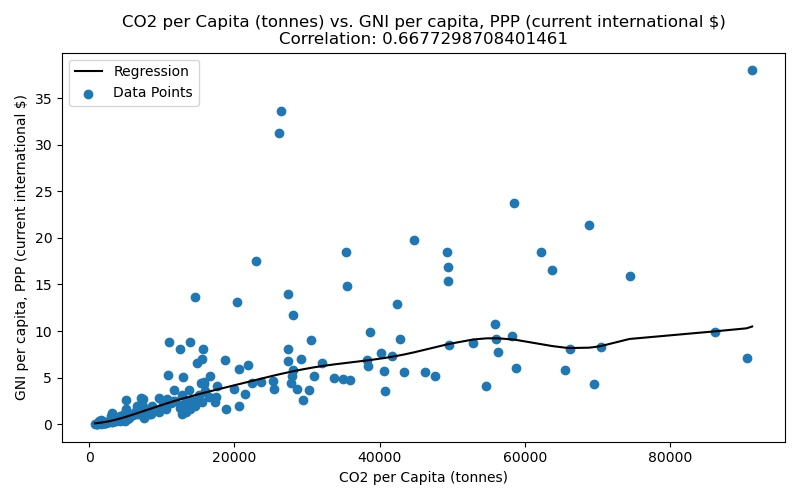
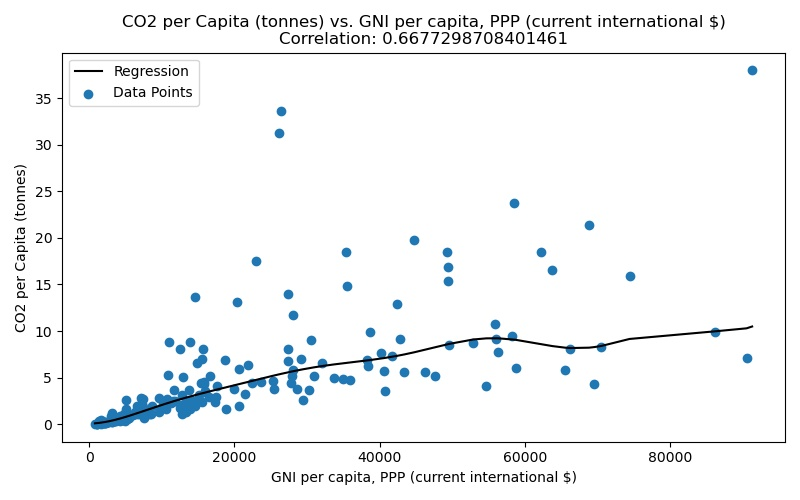
Fixed labeling axes in graphs

Changed region(s): [[0.0, 0.18, 0.0312, 0.81], [0.3438, 0.93, 0.7188, 0.99]]

diff --git a/create_graphs.py b/create_graphs.py
@@ -27,12 +27,12 @@ def create_graph(x, y, x_label, y_label, show=False, C=200, figsize=(16,9)):
     y = np.array(y)
     plt.scatter(x, y)
     plt.plot(np.sort(x), model.fit(X, y).predict(np.sort(X, axis=0)), color="black")
-    plt.title(x_label + " vs. " + y_label + "\nCorrelation: " + str(corr(np.array(x),y)))
+    plt.title(y_label + " vs. " + x_label + "\nCorrelation: " + str(corr(np.array(x),y)))
     plt.xlabel(x_label)
     plt.ylabel(y_label)
     plt.legend(["Regression", "Data Points"])
     plt.tight_layout()
-    plt.savefig("graphs/"+ x_label + " vs. " + y_label + ".jpg")
+    plt.savefig("graphs/"+ y_label + " vs. " + x_label + ".jpg")
     if show:
         plt.show()
 
@@ -45,7 +45,7 @@ for code in GNI["Country Code"]:
     if any(owid_df["iso_code"] == code):
         owid_x.append(GNI.loc[GNI["Country Code"] == code]["GNI per capita, PPP (current international $)"].item())
         owid_y.append(owid_df.loc[owid_df["iso_code"] == code]["co2_per_capita"].item())
-create_graph(owid_x, owid_y, "CO2 per Capita (tonnes)", "GNI per capita, PPP (current international $)",
+create_graph(owid_x, owid_y, "GNI per capita, PPP (current international $)", "CO2 per Capita (tonnes)", 
              C=1000, figsize=(8,5))
 
 # Create Municipal Waste graph
@@ -60,5 +60,5 @@ for code in GNI["Country Code"]:
         waste_x.append(GNI.loc[GNI["Country Code"] == code]["GNI per capita, PPP (current international $)"].item())
         waste_y.append(waste_df.loc[waste_df["Country Code"]==code]["Total Waste (tons)"].item() /
                        pop_df.loc[pop_df["Country Code"]==code]["Population"].item())
-create_graph(waste_x, waste_y, "Municipal Waste per capita (tons)", "GNI per capita, PPP (current international $)",
+create_graph(waste_x, waste_y, "GNI per capita, PPP (current international $)", "Municipal Waste per capita (tons)",
              C=.25, figsize=(8,5))
